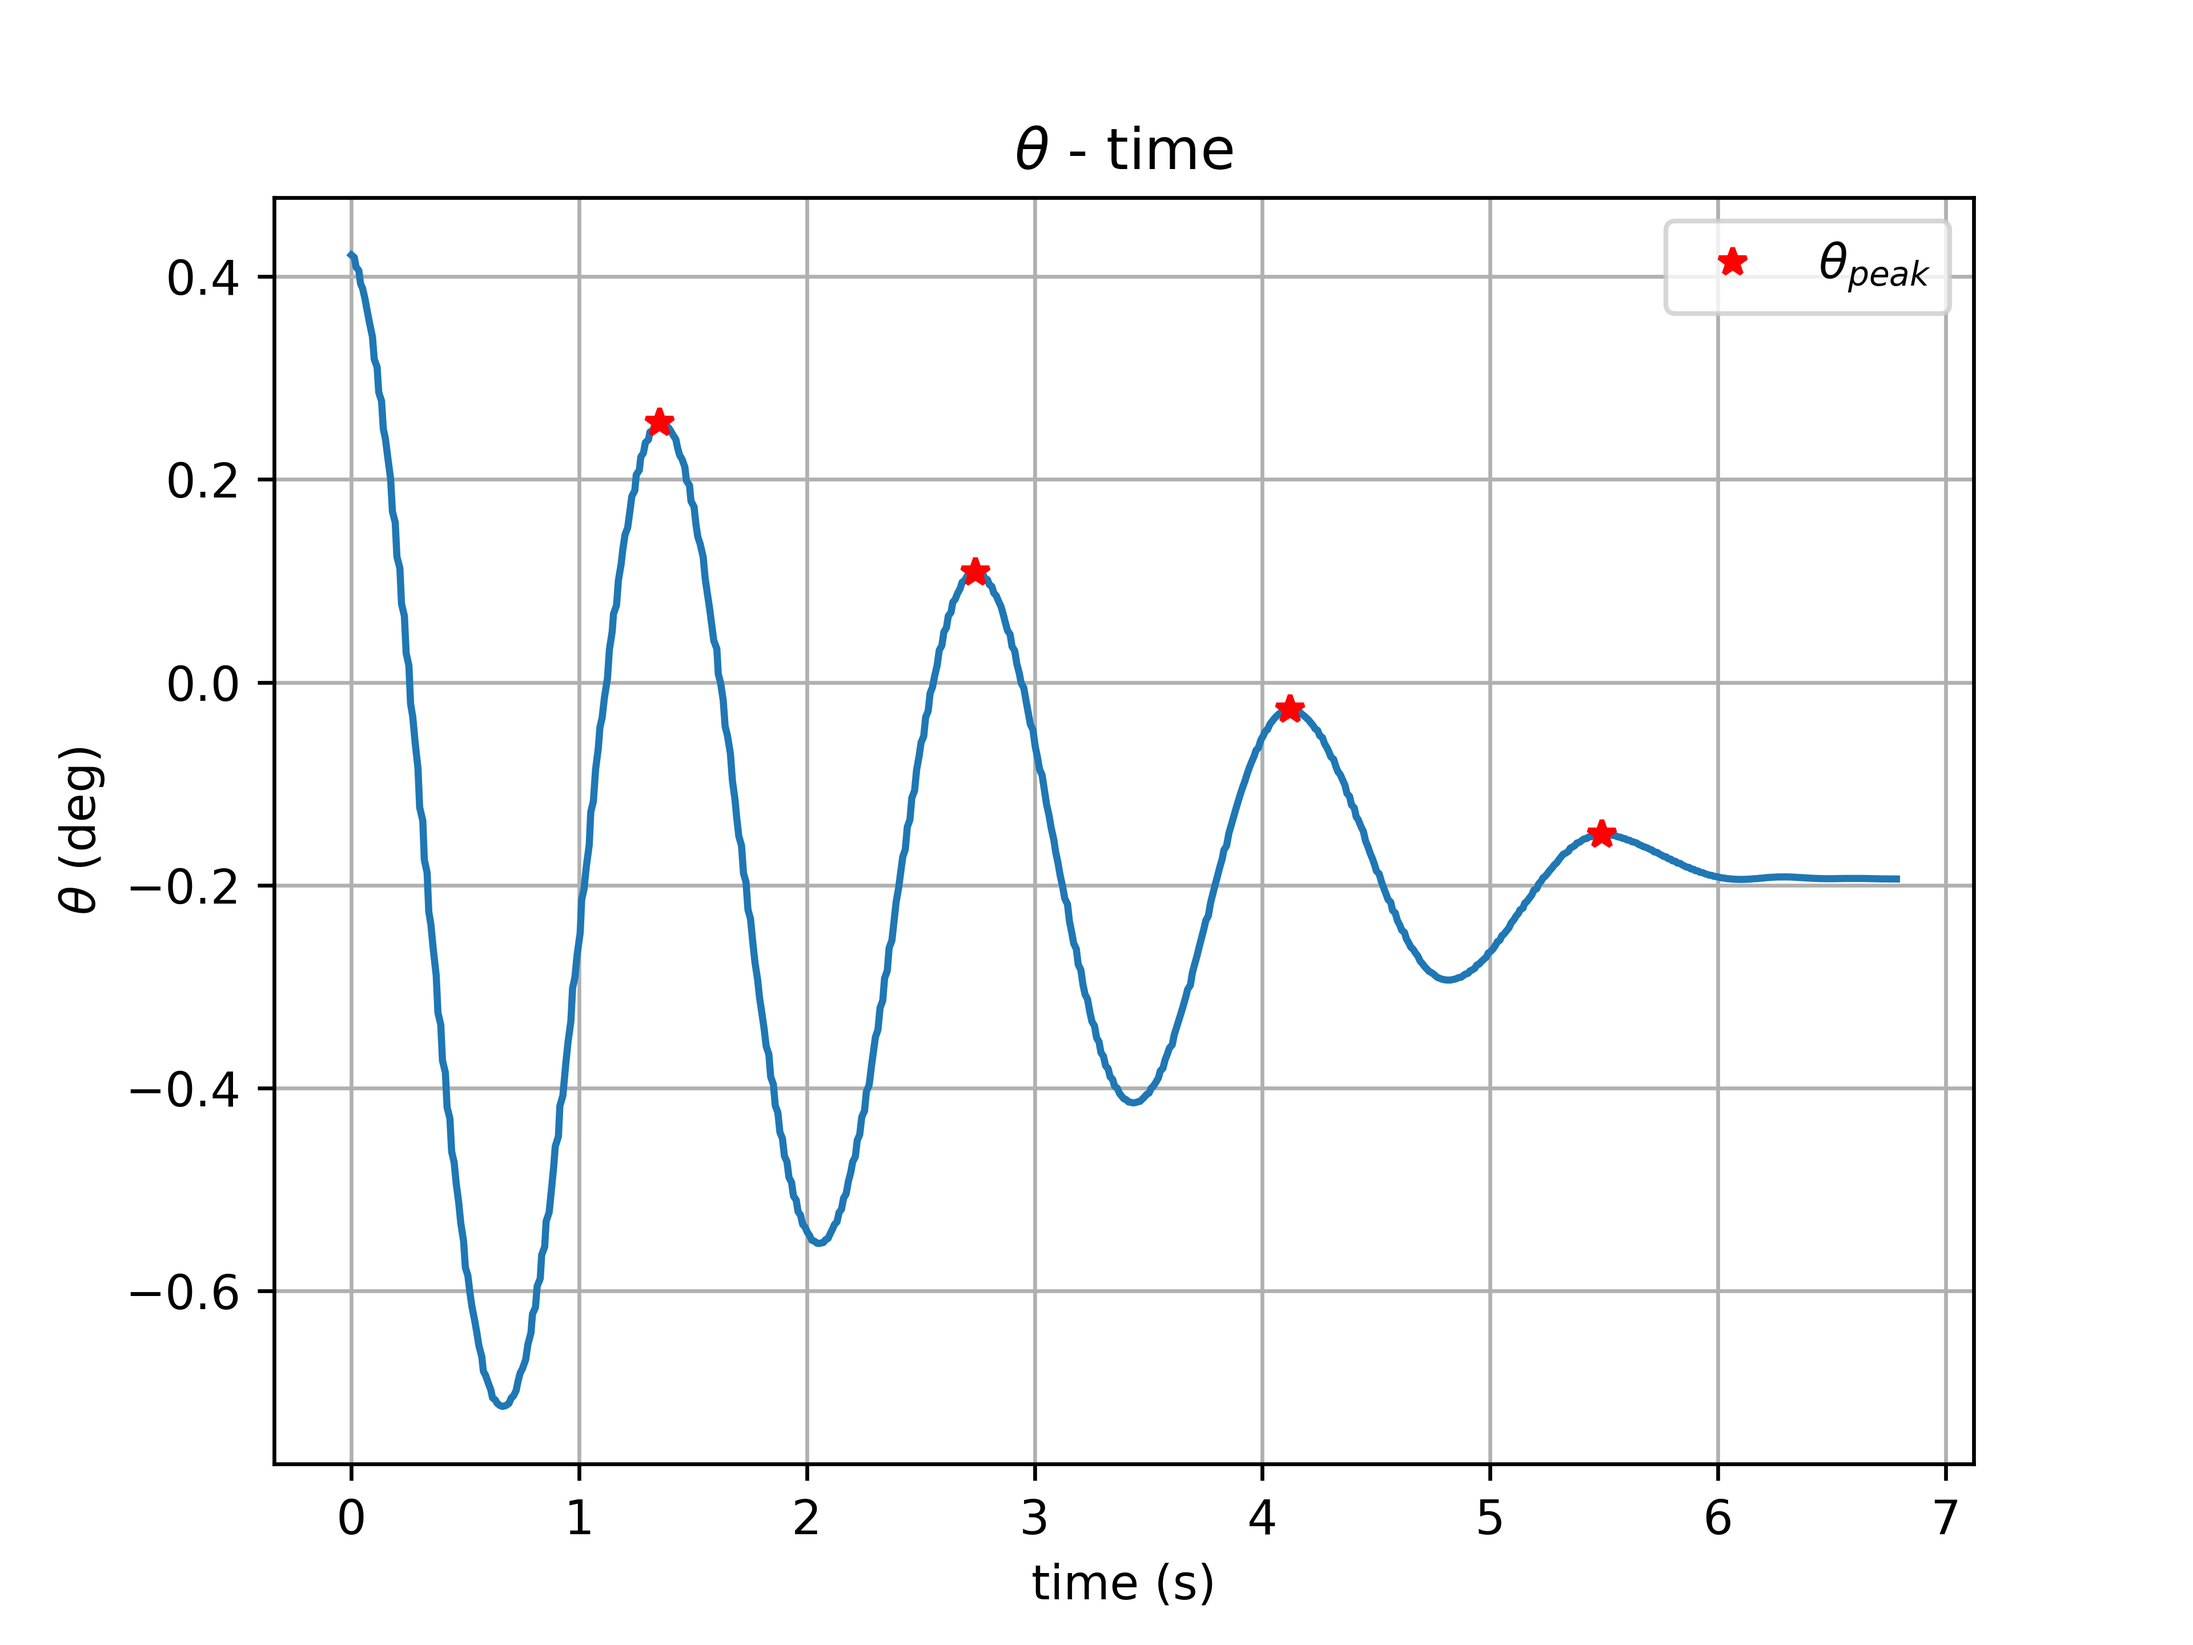
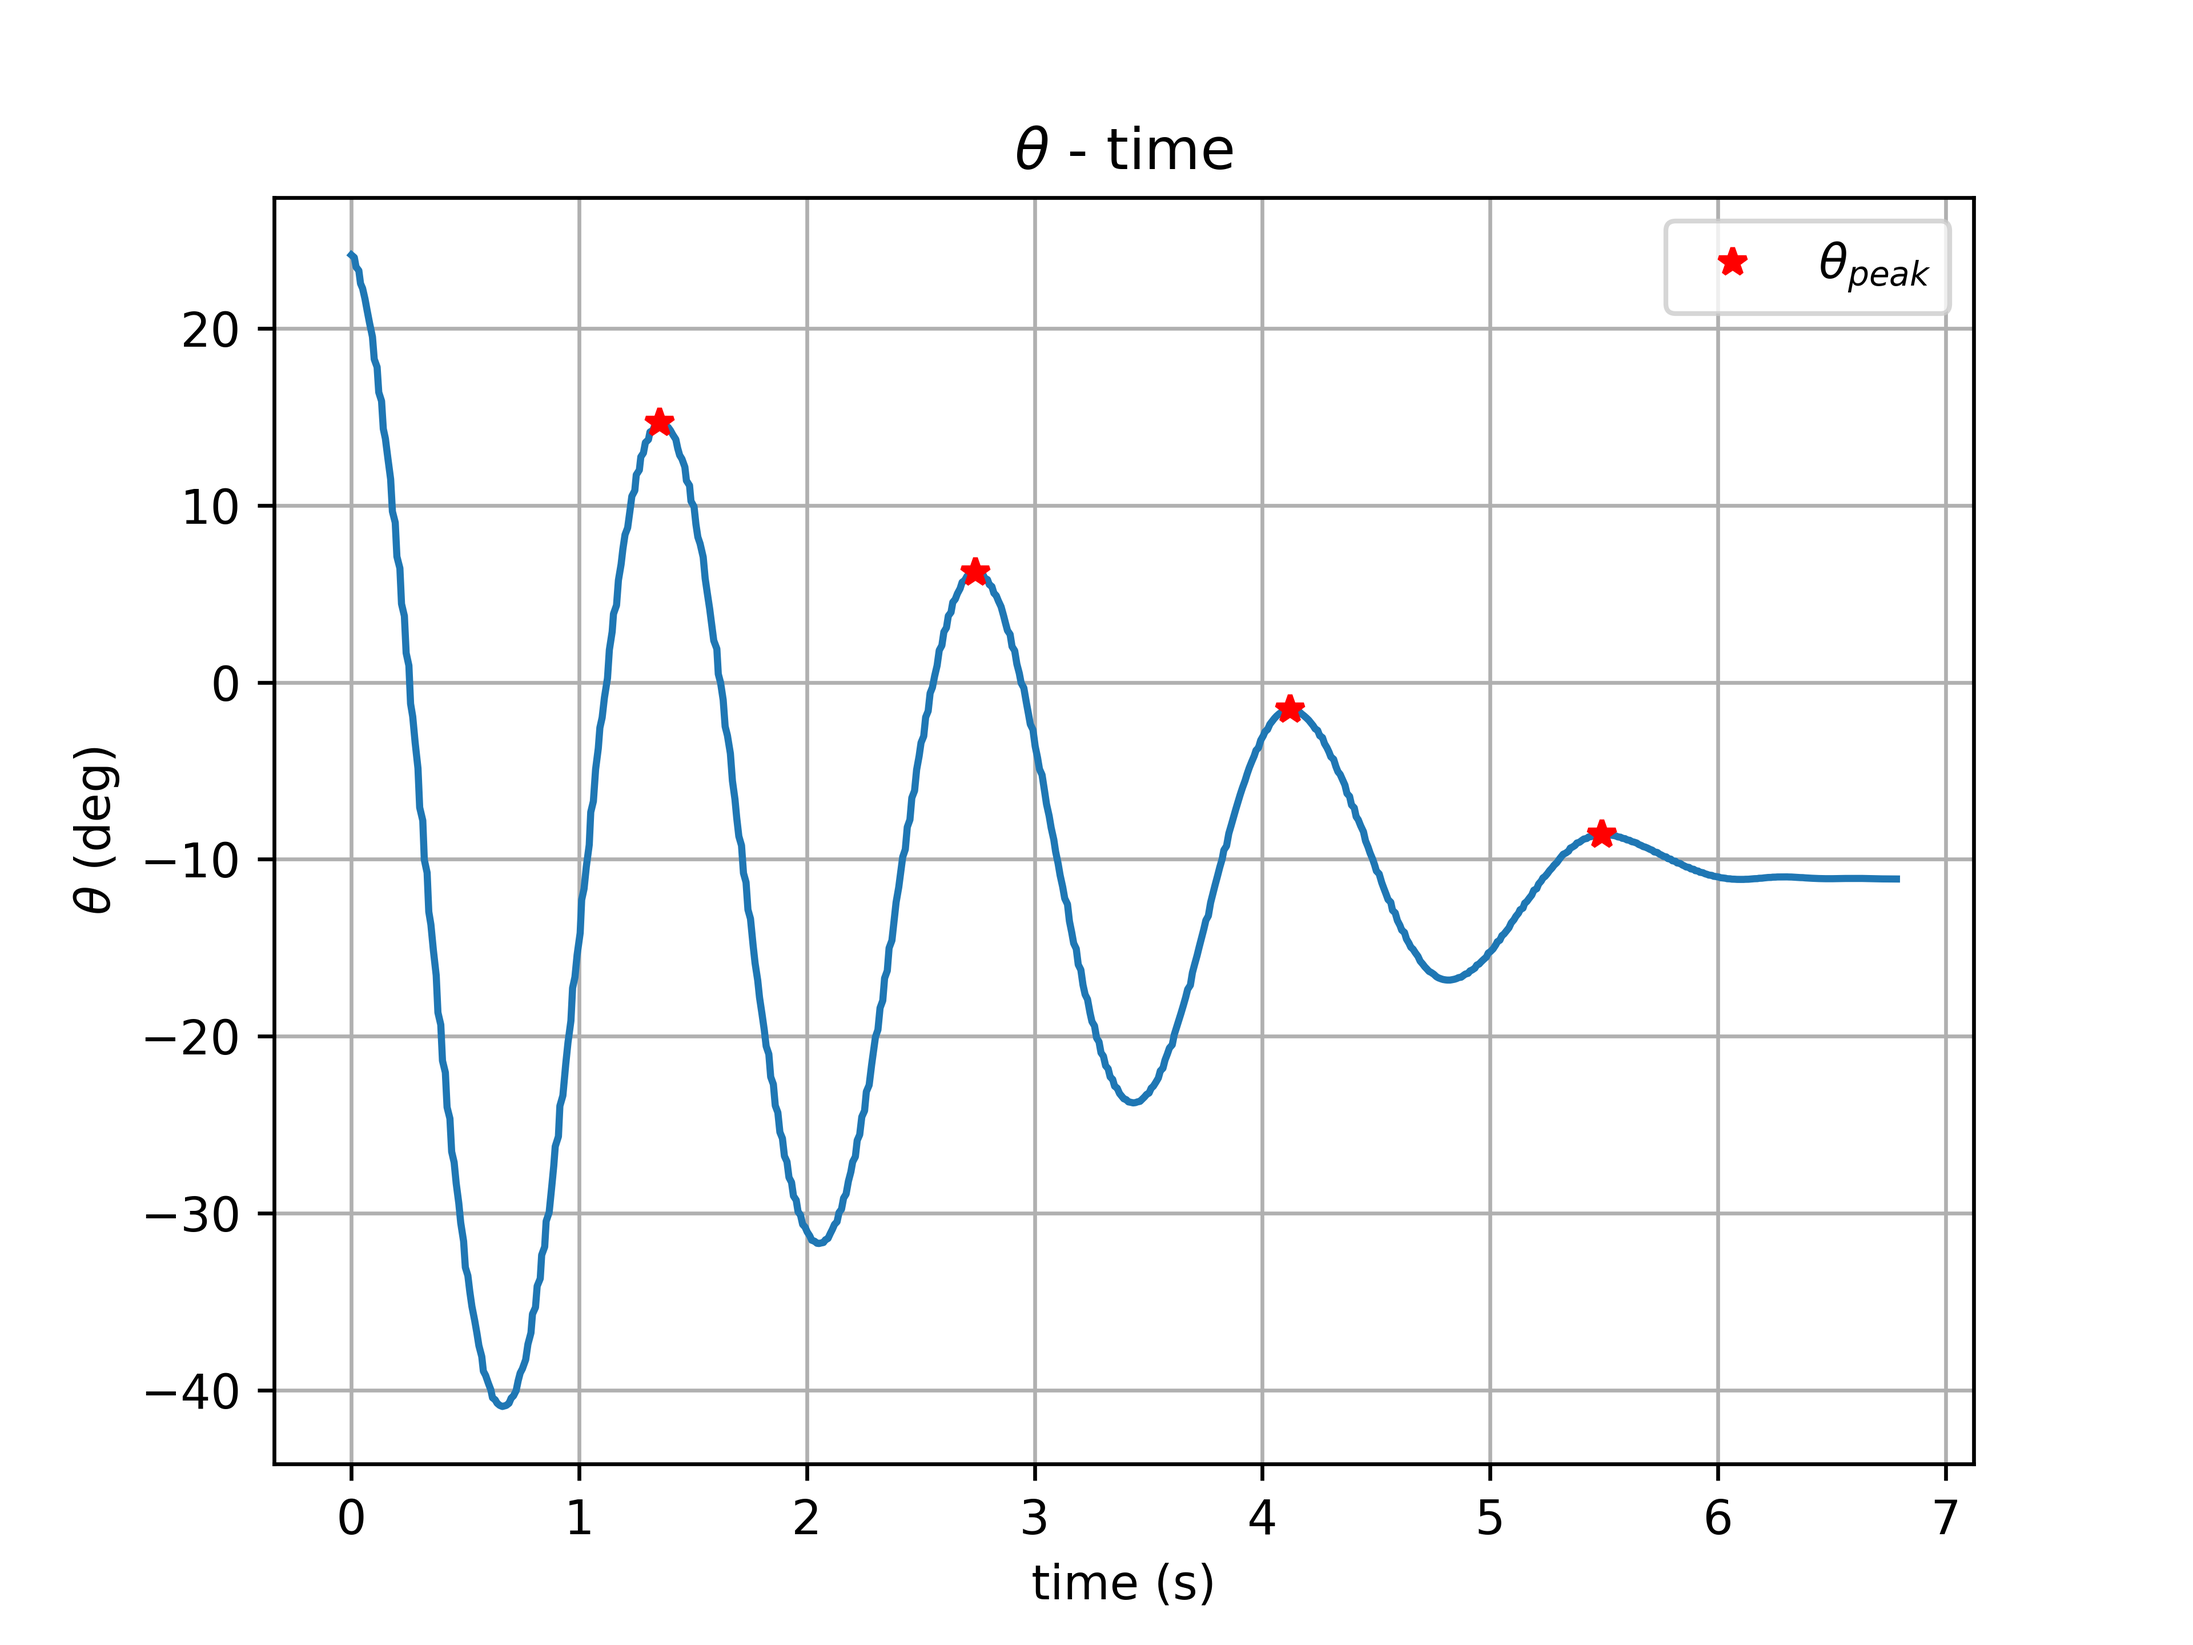
figure updated

diff --git a/J_zz_identification.py b/J_zz_identification.py
@@ -156,7 +156,10 @@ if __name__ == '__main__':
                 i = i + 1
 
             plt.plot(time_peak, psi_peak, '*', color='r', label=r'$\psi_{peak}$')
-            plt.title(r'$\psi$ - time')
+            if j < 10:
+                plt.title(r'$\psi$ - time (Before weight is added)')
+            else:
+                plt.title(r'$\psi$ - time (Weight is added)')
             plt.xlabel('time (s)')
             plt.ylabel(r'$\psi$ (deg)')
             plt.grid('True')
@@ -165,18 +168,18 @@ if __name__ == '__main__':
 
         j+=1
 
-natual_freq_0 = np.average(natual_freq_0)
+natual_freq_0_avg = np.average(natual_freq_0)
 
-natual_freq_weight = np.average(natual_freq_weight)
+natual_freq_weight_avg = np.average(natual_freq_weight)
 
-print('natual frequency for Jzz: ', natual_freq_0)
-print('natual frequency for Jzz + alpha: ', natual_freq_weight)
+print('natual frequency for Jzz: ', natual_freq_0_avg)
+print('natual frequency for Jzz + alpha: ', natual_freq_weight_avg)
 
 J_alpha = 2518.74e-6
 m = 0.510
 l = 0.308/2.0
 
 J_alpha_COM = 2*(J_alpha + m * l**2)
-J_zz = natual_freq_weight**2 / (natual_freq_0**2 - natual_freq_weight**2) * J_alpha_COM
+J_zz = natual_freq_weight_avg**2 / (natual_freq_0_avg**2 - natual_freq_weight_avg**2) * J_alpha_COM
 
 print('J_{zz}: ', J_zz, r'kg*m^2')

diff --git a/J_yy_identification.py b/J_yy_identification.py
@@ -125,7 +125,7 @@ if __name__ == '__main__':
             theta_temp = theta_temp*180.0/np.pi
             theta.append(theta_temp)
 
-        peak_indices, _ = find_peaks(theta, height = -0.18)
+        peak_indices, _ = find_peaks(theta, height = -0.18*180/np.pi)
 
         print(peak_indices)
 
@@ -171,7 +171,7 @@ if __name__ == '__main__':
 natural_freq_avg = np.average(natual_freq_0)
 
 
-print('natual frequency for Jyy: ', natual_freq_0)
+print('natual frequency for Jyy: ', natural_freq_avg)
 
 m = 2.190
 g = 9.81

diff --git a/J_xx_identification.py b/J_xx_identification.py
@@ -134,7 +134,7 @@ if __name__ == '__main__':
         natual_freq_0.append(w_n)
 
         if np.mod(j,10) == 0:
-            plt.plot(time,phi, label = 'Raw data')
+            plt.plot(time,phi)
 
             Num_of_peaks = len(peak_indices)
             phi_peak = np.zeros(Num_of_peaks)
@@ -159,7 +159,7 @@ if __name__ == '__main__':
 natural_freq_avg = np.average(natual_freq_0)
 
 
-print('natual frequency for Jxx: ', natual_freq_0)
+print('natual frequency for Jxx: ', natural_freq_avg)
 
 m = 2.190
 g = 9.81
